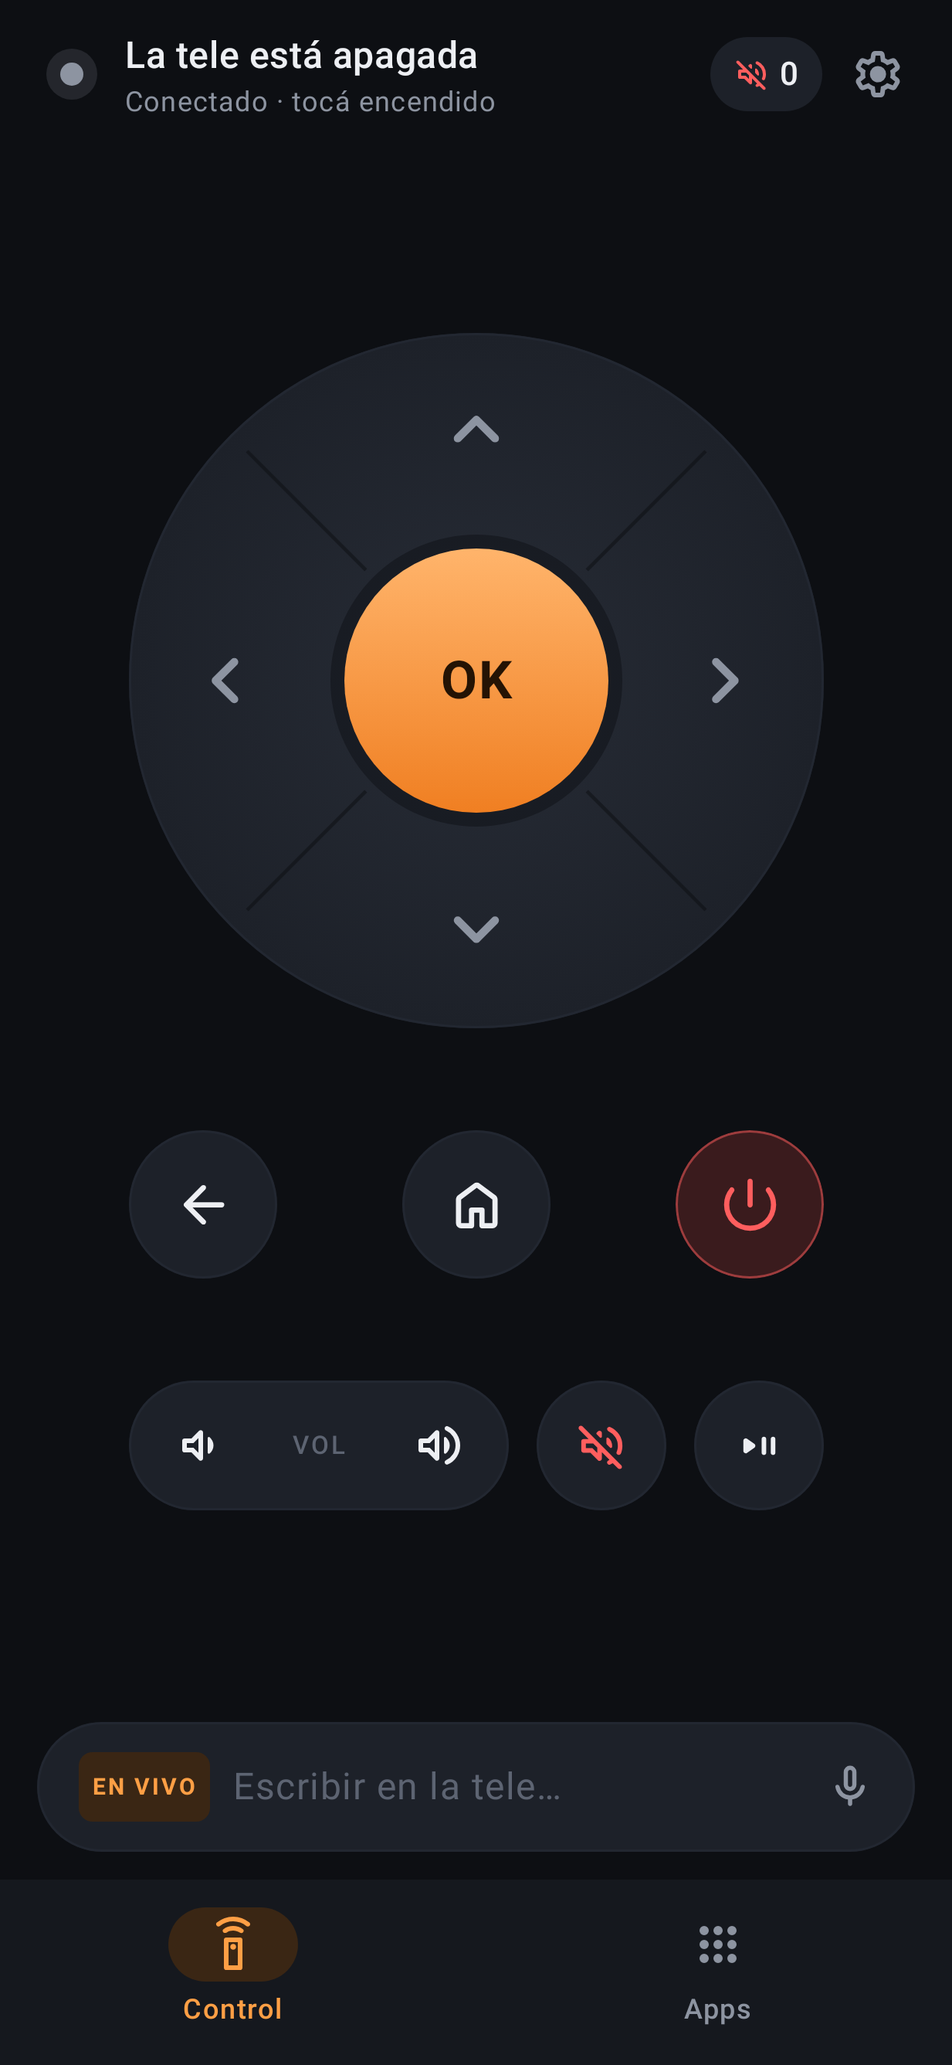
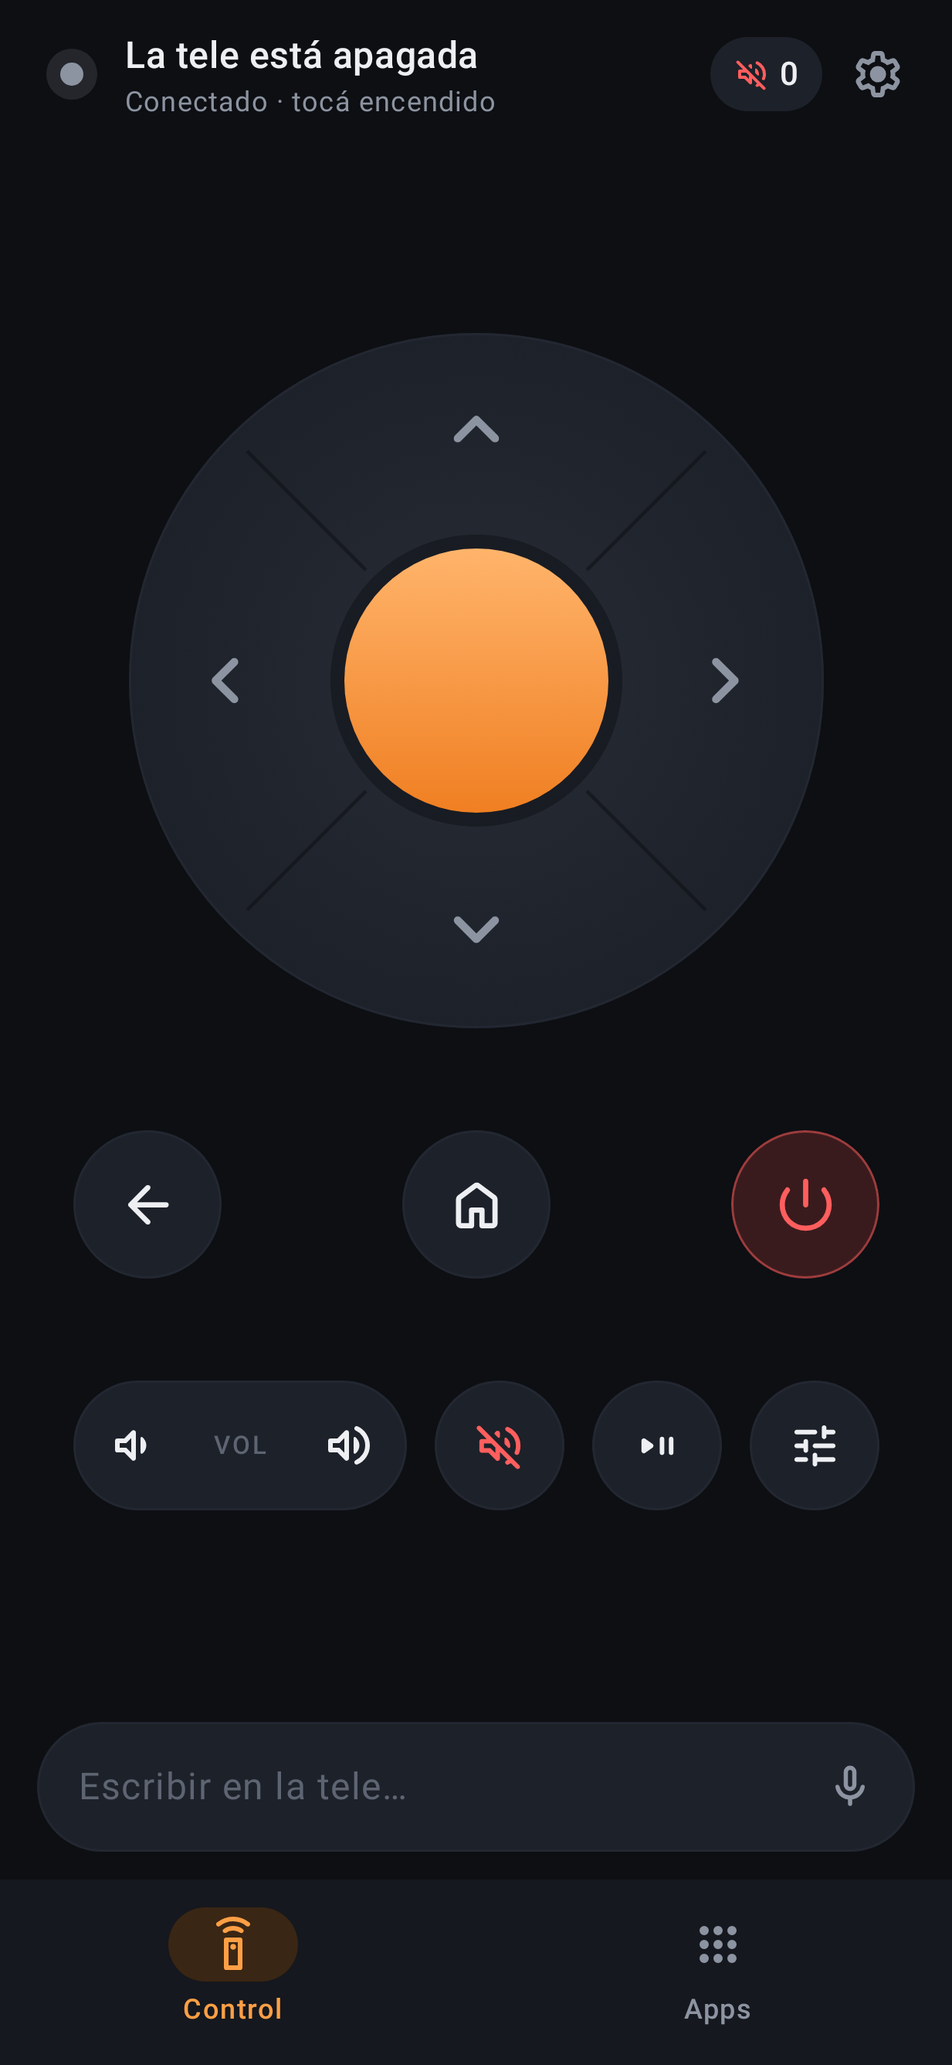
Panel rápido, abrir apps por paquete con Play Store y pendientes
- Botón Panel rápido en el Control (tecla de configuración del control).
  La tele rechaza los links a pantallas de configuración (intent: con y
  sin paquete, market://launch de Configuración), así que no hay accesos
  directos: se probó y quedó anotado en PENDIENTES.md.
- Abrir por paquete: la tele rechaza market://launch aunque la app esté
  instalada. Ahora se manda la ficha de Play Store (market://details) y,
  cuando la tele avisa que está en Play Store, se aprieta OK en "Abrir".
  Los links viejos guardados se pasan solos al formato nuevo.
- Sin el texto "OK" en el pad ni la etiqueta "EN VIVO" en la barra de texto.
- El balancín de volumen esconde "VOL" si no entra.
- README, capturas de docs/diseno y PENDIENTES.md al día.

diff --git a/app/src/main/java/com/gonzalo/controltv/ui/RemoteViewModel.kt b/app/src/main/java/com/gonzalo/controltv/ui/RemoteViewModel.kt
@@ -27,10 +27,12 @@ import kotlinx.coroutines.flow.asStateFlow
 import kotlinx.coroutines.flow.collectLatest
 import kotlinx.coroutines.flow.combine
 import kotlinx.coroutines.flow.distinctUntilChanged
+import kotlinx.coroutines.flow.first
 import kotlinx.coroutines.flow.map
 import kotlinx.coroutines.flow.stateIn
 import kotlinx.coroutines.launch
 import kotlinx.coroutines.withContext
+import kotlinx.coroutines.withTimeoutOrNull
 
 /** Conecta las pantallas con [com.gonzalo.controltv.tv.TvConnection]. Los botones nunca tocan el socket. */
 class RemoteViewModel(application: Application) : AndroidViewModel(application), RemoteActions {
@@ -140,7 +142,38 @@ class RemoteViewModel(application: Application) : AndroidViewModel(application),
 
     fun launch(tvApp: TvApp, byPackage: Boolean = false) {
         val link = if (byPackage) tvApp.packageLink ?: tvApp.link else tvApp.link
-        if (!connection.launchApp(link)) toast("Sin conexión con la tele")
+        val wasInStore = (state.value as? TvState.Conectado)?.app == TvApp.PLAY_STORE
+        if (!connection.launchApp(link)) {
+            toast("Sin conexión con la tele")
+            return
+        }
+        if (TvApp.isMarketLink(link)) pressOpenInStore(wasInStore)
+    }
+
+    private var pressingOpen: Job? = null
+
+    /**
+     * Abrir por paquete muestra la ficha de Play Store con "Abrir" seleccionado: cuando la tele
+     * avisa que está en Play Store, se espera a que cargue la ficha y se aprieta OK.
+     */
+    private fun pressOpenInStore(wasInStore: Boolean) {
+        pressingOpen?.cancel()
+        pressingOpen = viewModelScope.launch {
+            if (wasInStore) {
+                // Ya estaba en Play Store: la tele no avisa de nuevo, así que se espera más.
+                delay(STORE_SETTLE_MS * 2)
+            } else {
+                val opened = withTimeoutOrNull(STORE_WAIT_MS) {
+                    state.first { (it as? TvState.Conectado)?.app == TvApp.PLAY_STORE }
+                }
+                if (opened == null) {
+                    toast("La tele no abrió la app")
+                    return@launch
+                }
+                delay(STORE_SETTLE_MS)
+            }
+            connection.sendKey(Keys.DPAD_CENTER)
+        }
     }
 
     // ---- Apps ----
@@ -311,6 +344,12 @@ class RemoteViewModel(application: Application) : AndroidViewModel(application),
     companion object {
         /** Cuánto se espera a que la tele abra el buscador después de recibir texto. */
         private const val FIELD_WAIT_MS = 2_500L
+
+        /** Cuánto se espera a que la tele abra Play Store (en la prueba tardó 1,4 s). */
+        private const val STORE_WAIT_MS = 5_000L
+
+        /** Lo que se deja cargar la ficha antes de apretar OK en "Abrir". */
+        private const val STORE_SETTLE_MS = 1_000L
         private val HOST = Regex("^[A-Za-z0-9.:\\-]{1,253}$")
 
         fun isValidHost(host: String): Boolean {

diff --git a/app/src/main/java/com/gonzalo/controltv/data/AppsRepository.kt b/app/src/main/java/com/gonzalo/controltv/data/AppsRepository.kt
@@ -13,8 +13,8 @@ import org.json.JSONObject
 import java.util.UUID
 
 /**
- * Una app de la grilla. [link] es lo que se manda a la tele (link directo o
- * `market://launch?id=<paquete>`). [pkg] sirve para marcar la app abierta y como plan B.
+ * Una app de la grilla. [link] es lo que se manda a la tele (link directo o la ficha de Play
+ * Store, ver [marketLink]). [pkg] sirve para marcar la app abierta y como plan B.
  */
 data class TvApp(
     val id: String = UUID.randomUUID().toString(),
@@ -25,7 +25,23 @@ data class TvApp(
     val packageLink: String? get() = pkg.takeIf { it.isNotBlank() }?.let { marketLink(it) }
 
     companion object {
-        fun marketLink(pkg: String) = "market://launch?id=$pkg"
+        /** Play Store, que abre las fichas de [marketLink]. */
+        const val PLAY_STORE = "com.android.vending"
+
+        private const val DETAILS = "market://details?id="
+        private const val LAUNCH = "market://launch?id="
+
+        /**
+         * Abrir una app por paquete. La tele rechaza `market://launch` (y `android-app://` o
+         * `intent:`) aunque la app esté instalada, pero acepta la ficha de Play Store, que se abre
+         * con "Abrir" seleccionado: después de mandarla, la app aprieta OK (probado el 14/11/2026).
+         */
+        fun marketLink(pkg: String) = DETAILS + pkg
+
+        fun isMarketLink(link: String) = link.startsWith(DETAILS)
+
+        /** Las apps guardadas antes del cambio tienen `market://launch`: se pasan a la ficha. */
+        fun upgradeLink(link: String) = if (link.startsWith(LAUNCH)) DETAILS + link.removePrefix(LAUNCH) else link
     }
 }
 
@@ -78,7 +94,7 @@ class AppsRepository(context: Context) {
             val array = JSONArray(json)
             return List(array.length()) { i ->
                 val o = array.getJSONObject(i)
-                TvApp(o.getString("id"), o.getString("name"), o.getString("link"), o.optString("pkg"))
+                TvApp(o.getString("id"), o.getString("name"), TvApp.upgradeLink(o.getString("link")), o.optString("pkg"))
             }
         }
     }

diff --git a/app/src/main/java/com/gonzalo/controltv/ui/ControlScreen.kt b/app/src/main/java/com/gonzalo/controltv/ui/ControlScreen.kt
@@ -123,7 +123,8 @@ fun ControlScreen(
             } else {
                 min(min(maxWidth * 0.7f, maxHeight - 12.dp), 300.dp)
             }.coerceAtLeast(120.dp)
-            val clusterWidth = maxOf(padSize, 280.dp).coerceAtMost(maxWidth)
+            // Las filas son un poco más anchas que el pad, para que el volumen entre junto a tres botones.
+            val clusterWidth = maxOf(padSize + 48.dp, 300.dp).coerceAtMost(maxWidth)
             // En pantallas altas, el aire sobrante se reparte entre las filas en vez de quedar todo arriba y abajo.
             val gap = ((maxHeight - padSize - 64.dp - 56.dp) / 4).coerceIn(28.dp, 44.dp)
             val poweredOff = state is TvState.Conectado && !state.prendida
@@ -160,7 +161,7 @@ fun ControlScreen(
                         VolumeRocker(
                             onDown = { actions.key(Keys.VOLUME_DOWN) },
                             onUp = { actions.key(Keys.VOLUME_UP) },
-                            width = clusterWidth - 56.dp * 2 - 24.dp,
+                            width = clusterWidth - 56.dp * 3 - 12.dp * 3,
                         )
                         RoundKey(
                             R.drawable.ic_volume_off, "Silencio", { actions.key(Keys.VOLUME_MUTE) },
@@ -168,6 +169,9 @@ fun ControlScreen(
                             tint = if (volume?.muted == true) Palette.Red else Palette.Text,
                         )
                         RoundKey(R.drawable.ic_play_pause, "Play o pausa", { actions.key(Keys.MEDIA_PLAY_PAUSE) }, size = 56.dp, hold = Hold.None)
+                        // La tecla de configuración del control: abre el panel rápido de Google TV.
+                        // Es la única forma de llegar a la configuración: la tele rechaza los links a esas pantallas.
+                        RoundKey(R.drawable.ic_tune, "Panel rápido", { actions.key(Keys.SETTINGS) }, size = 56.dp, hold = Hold.None)
                     }
                 }
             }

diff --git a/app/src/main/java/com/gonzalo/controltv/ui/TextBar.kt b/app/src/main/java/com/gonzalo/controltv/ui/TextBar.kt
@@ -5,12 +5,10 @@ import androidx.compose.foundation.background
 import androidx.compose.foundation.border
 import androidx.compose.foundation.layout.Box
 import androidx.compose.foundation.layout.Row
-import androidx.compose.foundation.layout.Spacer
 import androidx.compose.foundation.layout.fillMaxWidth
 import androidx.compose.foundation.layout.height
 import androidx.compose.foundation.layout.padding
 import androidx.compose.foundation.layout.size
-import androidx.compose.foundation.layout.width
 import androidx.compose.foundation.shape.CircleShape
 import androidx.compose.foundation.shape.RoundedCornerShape
 import androidx.compose.foundation.text.BasicTextField
@@ -30,11 +28,9 @@ import androidx.compose.ui.draw.clip
 import androidx.compose.ui.graphics.Color
 import androidx.compose.ui.graphics.SolidColor
 import androidx.compose.ui.res.painterResource
-import androidx.compose.ui.text.font.FontWeight
 import androidx.compose.ui.text.input.ImeAction
 import androidx.compose.ui.text.style.TextOverflow
 import androidx.compose.ui.unit.dp
-import androidx.compose.ui.unit.sp
 import com.gonzalo.controltv.R
 import com.gonzalo.controltv.ui.theme.Palette
 
@@ -63,20 +59,6 @@ fun TextBar(
             .padding(start = 18.dp, end = 6.dp),
         verticalAlignment = Alignment.CenterVertically,
     ) {
-        if (live) {
-            Text(
-                "EN VIVO",
-                color = Palette.Accent,
-                fontSize = 10.sp,
-                fontWeight = FontWeight.Bold,
-                letterSpacing = 1.sp,
-                modifier = Modifier
-                    .clip(RoundedCornerShape(6.dp))
-                    .background(Palette.AccentContainer)
-                    .padding(horizontal = 6.dp, vertical = 3.dp),
-            )
-            Spacer(Modifier.width(10.dp))
-        }
         BasicTextField(
             value = text,
             onValueChange = onTextChange,

diff --git a/app/src/main/java/com/gonzalo/controltv/ui/RemoteKeys.kt b/app/src/main/java/com/gonzalo/controltv/ui/RemoteKeys.kt
@@ -212,8 +212,13 @@ fun VolumeRocker(
         ) {
             Icon(painterResource(R.drawable.ic_volume_down), null, tint = Palette.Text, modifier = Modifier.size(24.dp))
         }
-        Box(Modifier.width(44.dp), contentAlignment = Alignment.Center) {
-            Text("VOL", color = Palette.TextFaint, fontSize = 11.sp, fontWeight = FontWeight.SemiBold, letterSpacing = 1.sp)
+        // En pantallas angostas el "VOL" no entra: queda una rayita y el lugar es para los botones.
+        if (width >= 140.dp) {
+            Box(Modifier.width(44.dp), contentAlignment = Alignment.Center) {
+                Text("VOL", color = Palette.TextFaint, fontSize = 11.sp, fontWeight = FontWeight.SemiBold, letterSpacing = 1.sp)
+            }
+        } else {
+            Box(Modifier.width(1.dp).height(height * 0.4f).background(Palette.Outline))
         }
         Box(
             Modifier
@@ -351,10 +356,7 @@ fun DPad(
                     contentDescription = "OK"
                     onClick { key(Keys.DPAD_CENTER); true }
                 },
-            contentAlignment = Alignment.Center,
-        ) {
-            Text("OK", color = Palette.OnAccent, fontWeight = FontWeight.Bold, fontSize = (size.value * 0.075f).sp, letterSpacing = 1.sp)
-        }
+        )
     }
 }
 

diff --git a/app/src/test/java/com/gonzalo/controltv/data/AppLinksTest.kt b/app/src/test/java/com/gonzalo/controltv/data/AppLinksTest.kt
@@ -1,0 +1,24 @@
+package com.gonzalo.controltv.data
+
+import org.junit.Assert.assertEquals
+import org.junit.Assert.assertFalse
+import org.junit.Assert.assertTrue
+import org.junit.Test
+
+class AppLinksTest {
+    @Test
+    fun openingByPackageUsesThePlayStorePage() {
+        // La tele rechaza market://launch; la ficha de Play Store sí la abre.
+        assertEquals("market://details?id=com.limelight", TvApp.marketLink("com.limelight"))
+        assertEquals("market://details?id=com.limelight", TvApp("x", "Moonlight", "netflix://", "com.limelight").packageLink)
+        assertTrue(TvApp.isMarketLink(TvApp.marketLink("org.xbmc.kodi")))
+        assertFalse(TvApp.isMarketLink("https://www.youtube.com"))
+    }
+
+    @Test
+    fun savedLaunchLinksAreUpgraded() {
+        assertEquals("market://details?id=org.xbmc.kodi", TvApp.upgradeLink("market://launch?id=org.xbmc.kodi"))
+        assertEquals("netflix://", TvApp.upgradeLink("netflix://"))
+        assertEquals("market://details?id=a.b", TvApp.upgradeLink("market://details?id=a.b"))
+    }
+}

diff --git a/README.md b/README.md
@@ -17,9 +17,10 @@ gradlew testDebugUnitTest    → pruebas + capturas de pantalla
 
 ## Probar sin la tele
 
-`gradlew testDebugUnitTest` corre 35 pruebas:
+`gradlew testDebugUnitTest` corre 37 pruebas:
 
 - **ProtocolTest**: bytes exactos de cada mensaje, el secreto de vinculación y el certificado.
+- **AppLinksTest**: el link para abrir una app por paquete y el cambio de los links viejos.
 - **FakeTvTest**: una tele de mentira con TLS de verdad (`FakeTv.kt`). Prueba la vinculación con el
   código, el código mal tipeado, la sesión de control (teclas, texto, apps, ping, volumen),
   el celu desconocido, la huella cambiada, la reconexión, que muchos reinicios seguidos no
@@ -38,14 +39,15 @@ Oscuro, porque se usa de noche frente a la tele: fondo grafito y un solo color d
 
 - **Control**: línea de estado arriba (punto de conexión, app en pantalla, volumen, Ajustes).
   En el medio, el pad circular con el OK ámbar como protagonista; abajo, Atrás · Inicio ·
-  Encendido y, más abajo, volumen · silencio · play/pausa. La barra de texto queda cerca del
+  Encendido y, más abajo, volumen · silencio · play/pausa · panel rápido. La barra de texto queda cerca del
   pulgar: el campo y el micrófono (borrar y mandar se hacen con el teclado del celu). Si el
   teclado ocupa la pantalla, se esconden las filas y queda el pad.
 - **Apps**: grilla de tarjetas con el ícono de cada app. El ícono oficial se baja una vez de
   Google Play (por el nombre de paquete) y queda guardado; al editar una app se puede elegir una
   imagen propia. Sin ícono se ve una inicial de color, que es lo que muestran las capturas (así
-  el repo no lleva logos de marcas). La app abierta en la tele se marca en ámbar, y arriba
-  aparece "En pantalla" con el botón para agregarla a la lista.
+  el repo no lleva logos de marcas). La app abierta en la tele se marca en ámbar. Si en la tele
+  hay una app que no está en la lista (y no es una pantalla del sistema), arriba aparece
+  "En pantalla" con el botón para agregarla.
 - **Vinculación**: dos pasos (IP y código), con el código en 6 casillas grandes.
 
 ![Control](docs/diseno/01_control.png)
@@ -63,6 +65,11 @@ Las 13 pantallas están en [docs/diseno](docs/diseno).
 - Las flechas y el volumen se repiten al mantenerlos apretados (manda toques seguidos).
 - OK, Atrás e Inicio hacen pulsación larga en la tele (`START_LONG` → `END_LONG`): por ejemplo, el menú contextual.
 - Encendido y play/pausa no tienen pulsación larga, para no apagar la tele sin querer.
+- **Panel rápido** manda la tecla de configuración del control y abre el panel de Google TV.
+  Es la forma de llegar a la configuración: la tele rechaza los links a sus pantallas.
+- Las apps sin link propio se abren **por paquete**: la app manda la ficha de Play Store
+  (`market://details?id=…`), que se abre con "Abrir" seleccionado, y cuando la tele avisa que
+  está en Play Store espera 1 s y aprieta OK. Si la app no está instalada, ese OK cae en "Instalar".
 
 ## Diferencias con el plan
 
@@ -83,10 +90,16 @@ Las 13 pantallas están en [docs/diseno](docs/diseno).
 - **Conexión muerta**: se da por muerta si pasan 16 s sin que *nadie* mande nada. La tele no hace
   ping mientras recibe comandos, así que lo que manda el celu también cuenta, como en la librería
   de referencia.
+- **Abrir por paquete con la ficha de Play Store**: el plan usaba `market://launch?id=…`, pero
+  esta tele lo rechaza aunque la app esté instalada. Las apps guardadas con el link viejo se
+  pasan solas al nuevo.
+- **Sin accesos directos a la configuración**: se probaron links a cada pantalla (`intent:` con
+  y sin paquete, y abrir la app Configuración) y la tele rechazó todos. Quedó el botón Panel
+  rápido.
 
 ## Probado con la tele real
 
-13/11/2026 · Chromecast con Google TV en una tele Sony · Galaxy S25 Ultra con Android 17.
+13 y 14/11/2026 · Chromecast con Google TV en una tele Sony · Galaxy S25 Ultra con Android 17.
 
 | Qué | Resultado |
 |---|---|
@@ -95,7 +108,11 @@ Las 13 pantallas están en [docs/diseno](docs/diseno).
 | Conexión, pings y reconexión al volver a la app | ✅ |
 | Flechas, OK, Atrás, Inicio, borrar y Enter | ✅ |
 | Volumen, silencio y play/pausa | Salen sin errores; falta verlos en pantalla |
+| Encendido (la tele avisa que prendió) | ✅ |
+| Panel rápido (abre la configuración) | ✅ |
 | Abrir apps por link (YouTube, Netflix) | ✅ |
+| Abrir apps por paquete (Moonlight, con la ficha de Play Store) | ✅ |
+| Links a pantallas de configuración | ❌ La tele los rechaza |
 | Íconos de las apps desde Google Play | ✅ |
 | Texto al enviar, en el buscador de Google TV | ✅ |
 | Texto en vivo (letra por letra y borrados) | ✅ |
@@ -110,6 +127,11 @@ Lo que se aprendió:
 - Mientras recibe comandos, la tele no manda pings.
 - Hay un mensaje que no figura en los `.proto` de referencia (campo 24). El log muestra sus bytes
   para poder descifrarlo.
-- Falta probar el resto de los links de la lista de apps y el encendido.
+- La tele rechaza los links que ninguna app sabe abrir: contesta `remote_error` y corta la
+  conexión (la app reconecta sola en 0,1 s). Pasa con `intent:`, `android-app://` y
+  `market://launch`, aunque la app esté instalada. `market://details` y
+  `https://play.google.com/…` sí andan.
+- Desde el protector de pantalla, la primera tecla solo despierta la tele.
+- Falta probar el resto de los links de la lista de apps.
 
 Si algo falla, Ajustes → Log de conexión muestra cada mensaje que va y viene, y se puede copiar.

diff --git a/PENDIENTES.md b/PENDIENTES.md
@@ -1,0 +1,60 @@
+# Pendientes
+
+Cosas para hacer más adelante, en orden de prioridad.
+
+## 1. Accesos a la configuración de la tele: resuelto
+
+Se quería una sección con accesos a la configuración del televisor (Wi‑Fi, Bluetooth y el
+resto). Se armó una pestaña "Tele" con una tarjeta por pantalla y se probó con la tele real el
+14/11/2026:
+
+| Qué se mandó | Resultado |
+|---|---|
+| Tecla `SETTINGS` (176) | ✅ Abre el panel rápido; la tele avisa `app com.android.tv.settings` |
+| `intent:#Intent;action=android.settings.…;end` (Configuración, Wi‑Fi, Red, Bluetooth, Pantalla) | ❌ Rechazado |
+| El mismo link con `package=com.android.tv.settings` | ❌ Rechazado |
+| `market://launch?id=com.android.tv.settings` | ❌ Rechazado |
+
+"Rechazado" quiere decir que la tele contesta `remote_error` con el mensaje del link (campo 90)
+y cierra la conexión. La app reconecta sola en 0,1 s. La tele solo acepta links que alguna app
+sabe abrir, y ninguno lleva a la configuración.
+
+Así que se sacó la pestaña Tele y quedó un botón **Panel rápido** en el Control, en la fila de
+volumen · silencio · play/pausa. Desde ese panel se llega a toda la configuración.
+
+Navegar a cada pantalla con secuencias de teclas sigue descartado: dependen del idioma y la
+versión de la tele, y se rompen con cualquier actualización.
+
+### De rebote: abrir apps por paquete
+
+La misma prueba mostró que `market://launch?id=…` se rechaza **también para apps instaladas**
+(Moonlight, `com.limelight`). Así abría la app todo lo que iba por paquete: "Abrir por paquete
+(plan B)", las apps agregadas solo con el paquete (Kodi, Moonlight) y "En pantalla → Agregar".
+
+| Link para Moonlight | Resultado |
+|---|---|
+| `market://launch?id=com.limelight` | ❌ Rechazado |
+| `android-app://com.limelight` | ❌ Rechazado |
+| `market://details?id=com.limelight` | ✅ Abre la ficha de Play Store con "Abrir" seleccionado |
+| `https://play.google.com/store/apps/details?id=com.limelight` | ✅ Lo mismo |
+
+Ahora abrir por paquete manda `market://details` y, cuando la tele avisa que está en Play
+Store (`com.android.vending`), la app espera 1 s y aprieta OK. Moonlight abrió en unos 2 s
+desde el toque. Las apps guardadas con `market://launch` se pasan solas al formato nuevo.
+Riesgo aceptado: si la app no está instalada en la tele, ese OK cae en "Instalar".
+
+## 2. Otros pendientes
+
+- **Probar viendo la tele:** volumen, silencio y play/pausa. Ya se mandan sin errores, pero
+  nadie los vio en pantalla. El volumen pasa por HDMI hacia la Sony. El encendido ya está
+  probado: la tele avisó que prendió (14/11/2026).
+- **Probar el resto de las apps:** Prime Video, Disney+, Plex, Twitch, Spotify, Crunchyroll y
+  Kodi. YouTube y Netflix ya están probadas, y Moonlight por paquete. Ojo: si un link no lo abre ninguna app, la tele
+  corta la conexión (ver la sección 1). La app reconecta sola, pero conviene sacar los que fallen.
+- **Mensaje 24:** la tele responde al texto con un mensaje que no está en los `.proto`. El log
+  muestra sus bytes; falta capturarlos y ver qué es.
+- **Texto en vivo de fábrica:** decidir si queda activado por defecto.
+- **Firma propia para el APK:** hoy se firma con la clave de depuración de esta PC. Con un
+  keystore propio (guardado fuera del repo) se puede actualizar la app desde otra compu.
+- **Versión 2 del plan original:** botones de volumen físicos del celu, tile de Ajustes rápidos o
+  widget, touchpad, voz directo al Asistente de la tele y más de un dispositivo.
